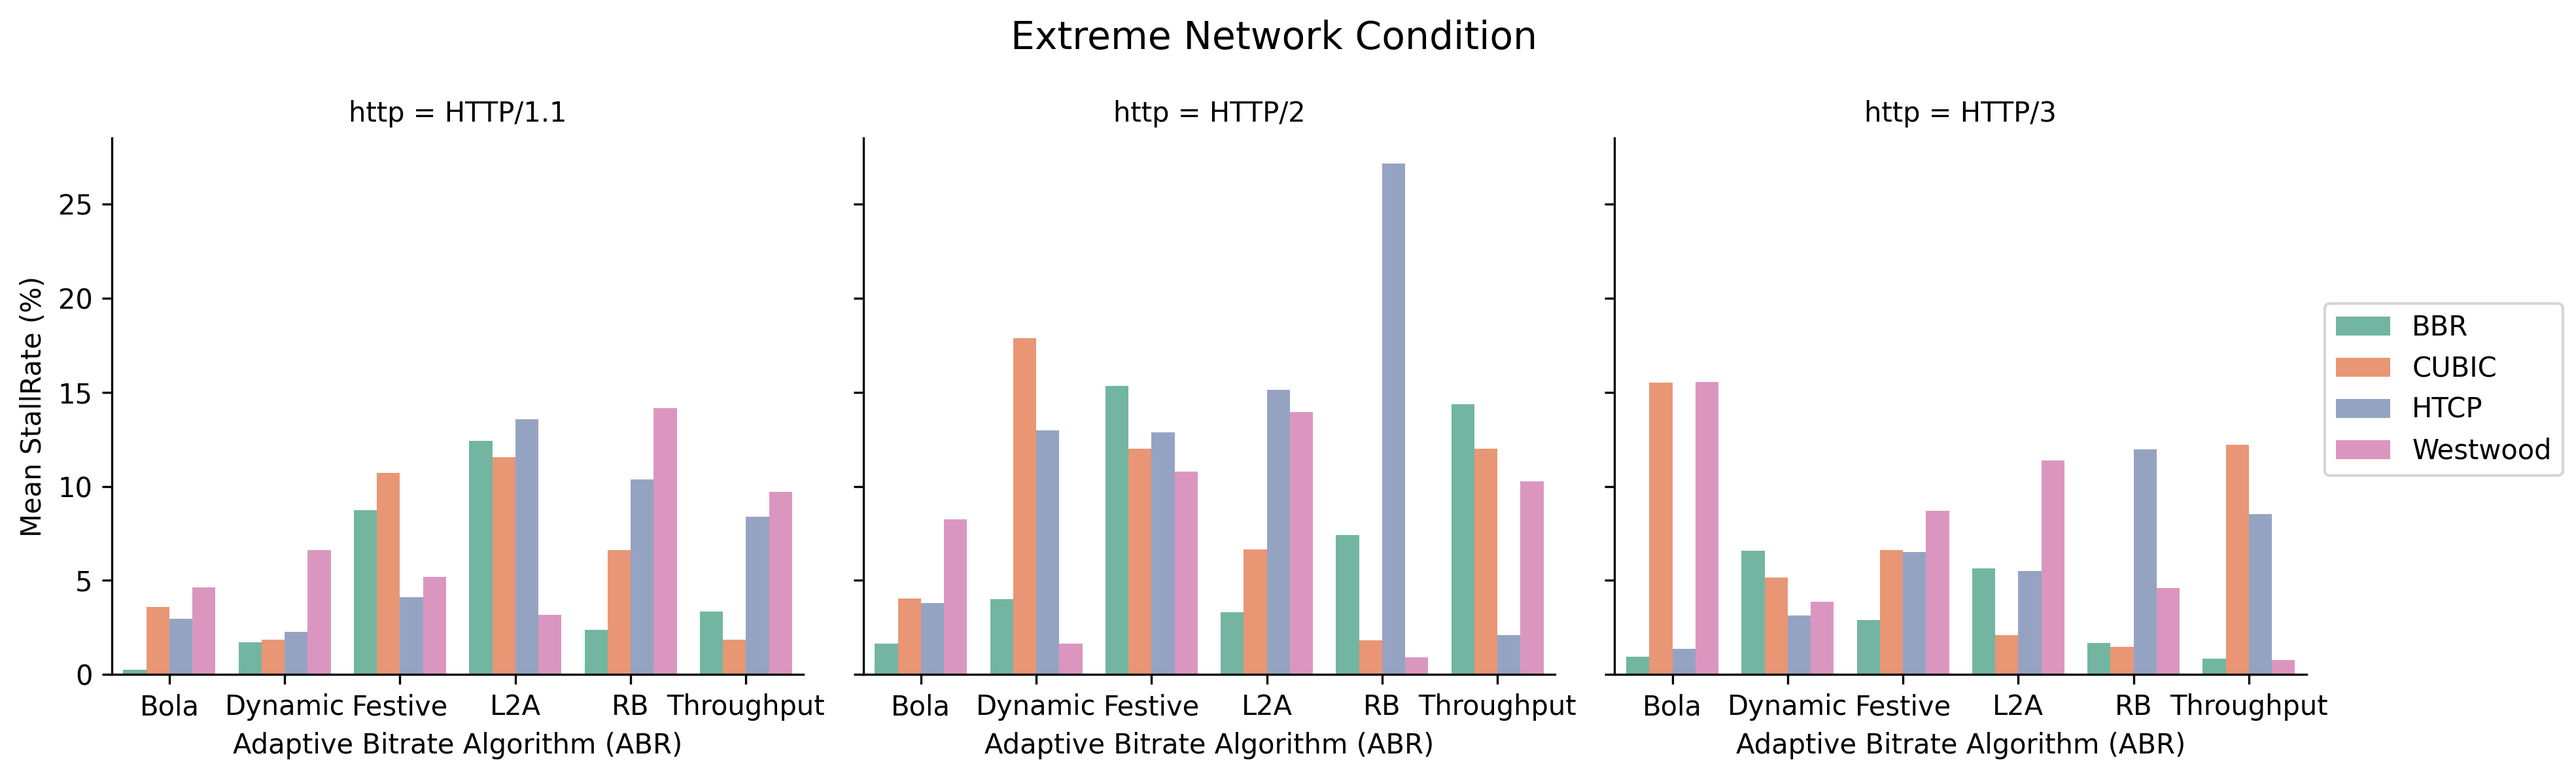
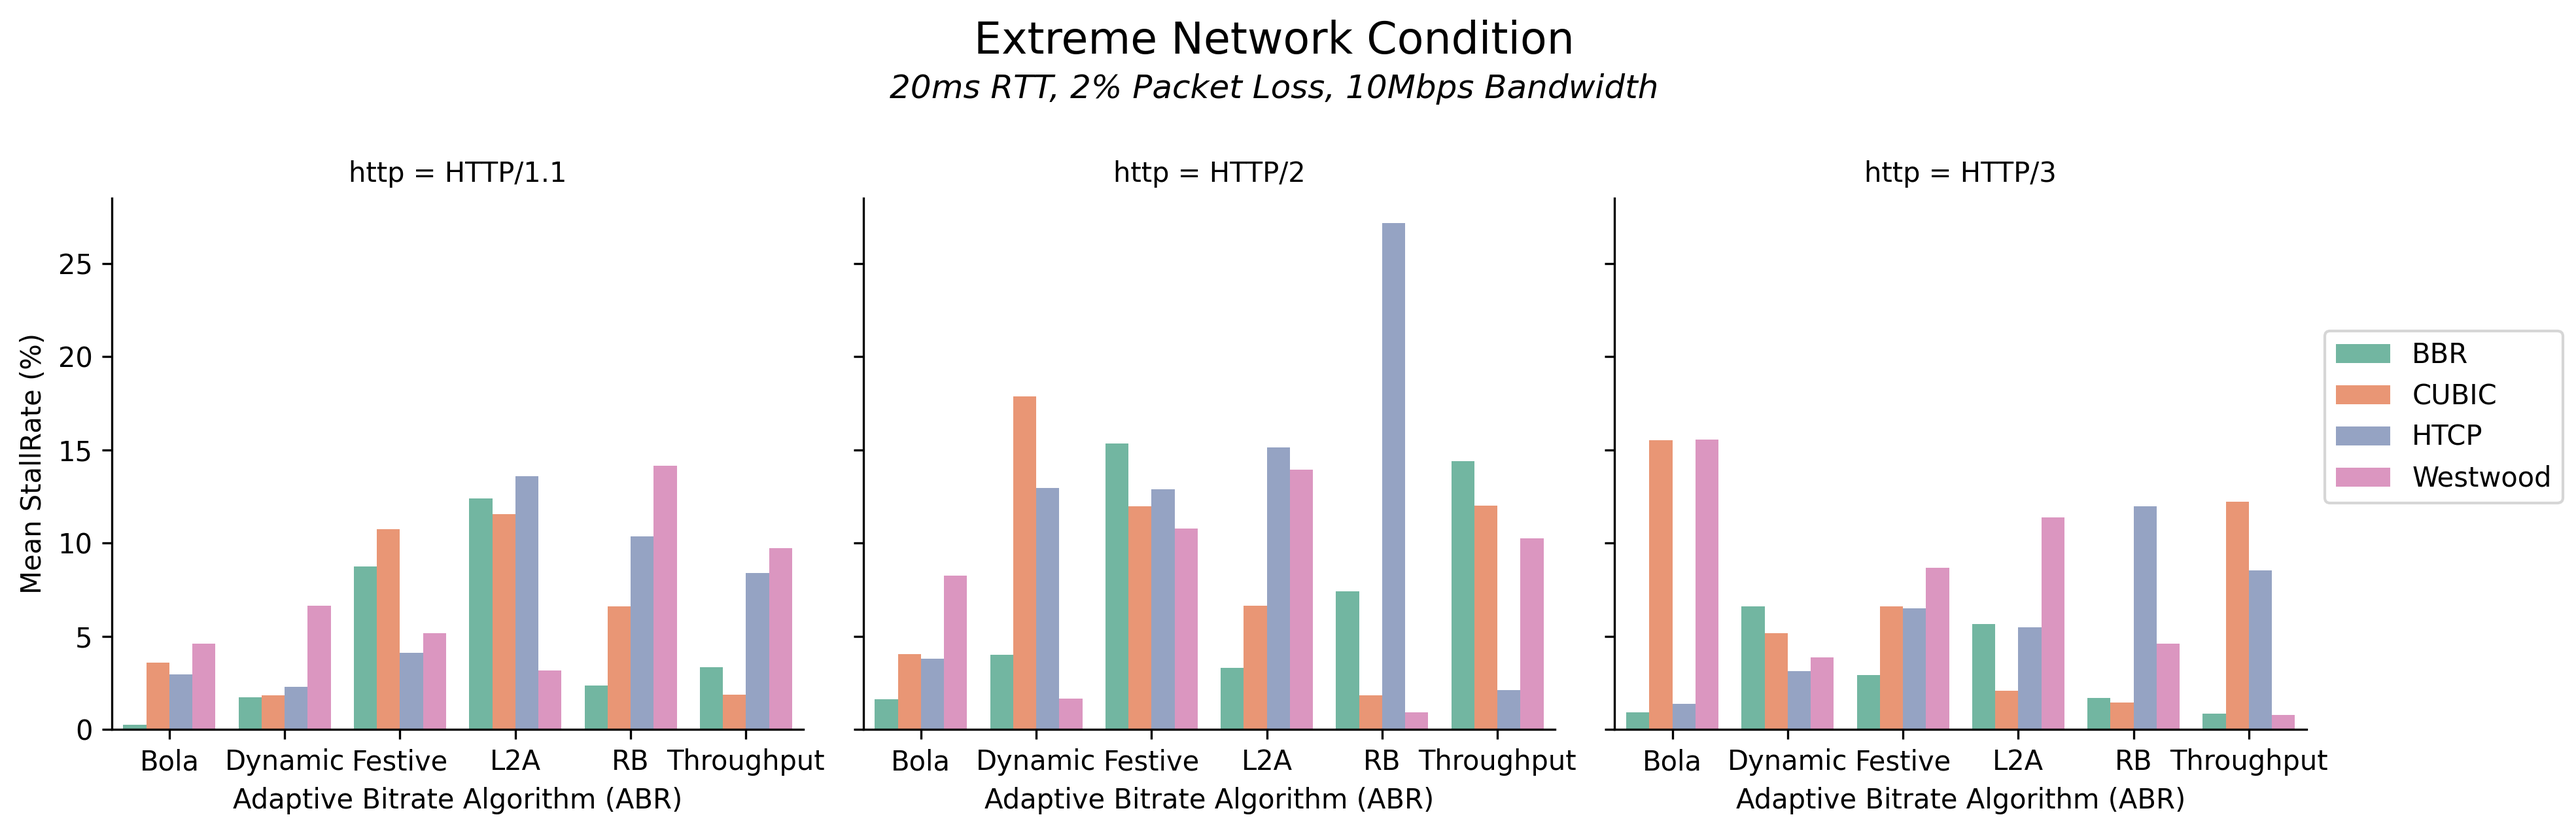
update plots

diff --git a/analysis/main.py b/analysis/main.py
@@ -50,12 +50,21 @@ def filter_df(df):
     return stallrate_df, bitrate_df
 
 
-def plot(df, title, xlabel, ylabel, out_filename):
+def plot(df, title, subtitle, xlabel, ylabel, out_filename):
     df = df.reset_index()
     palette = sns.color_palette("Set2", n_colors=4)
     g = sns.FacetGrid(df, col="http", height=4, aspect=1.2)
     g.figure.set_size_inches(12, 4)
-    g.figure.suptitle(title, fontsize=14)
+    g.figure.suptitle(title, fontsize=16, y=1.05)
+    g.figure.text(
+        0.5,
+        0.95,
+        subtitle,
+        ha="center",
+        fontsize=12,
+        style="italic",
+    )
+
     g.map_dataframe(
         sns.barplot, x="abr", y="metricValue", hue="cc", palette=palette, errorbar=None
     )
@@ -68,7 +77,7 @@ def plot(df, title, xlabel, ylabel, out_filename):
     g.savefig(out_filename, dpi=300, bbox_inches="tight")
 
 
-def run_flow(db_name, title):
+def run_flow(db_name, title, subtitle):
     df = load_db(db_name)
 
     stallrate_df, bitrate_df = filter_df(df)
@@ -77,6 +86,7 @@ def run_flow(db_name, title):
     plot(
         bitrate_df,
         title,
+        subtitle,
         xlabel,
         "Mean Bitrate (kbps)",
         f"plots/{title}-bitrate",
@@ -84,12 +94,23 @@ def run_flow(db_name, title):
     plot(
         stallrate_df,
         title,
+        subtitle,
         xlabel,
         "Mean StallRate (%)",
         f"plots/{title}-stallrate",
     )
 
 
-run_flow("good-low.db", "Low Network Condition")
-run_flow("good-high.db", "High Network Condition")
-run_flow("good-higher.db", "Extreme Network Condition")
+run_flow(
+    "good-low.db", "Low Network Condition", "20ms RTT, No Packet Loss, 10Mbps Bandwidth"
+)
+run_flow(
+    "good-high.db",
+    "High Network Condition",
+    "20ms RTT, 1% Packet Loss, 10Mbps Bandwidth",
+)
+run_flow(
+    "good-higher.db",
+    "Extreme Network Condition",
+    "20ms RTT, 2% Packet Loss, 10Mbps Bandwidth",
+)
